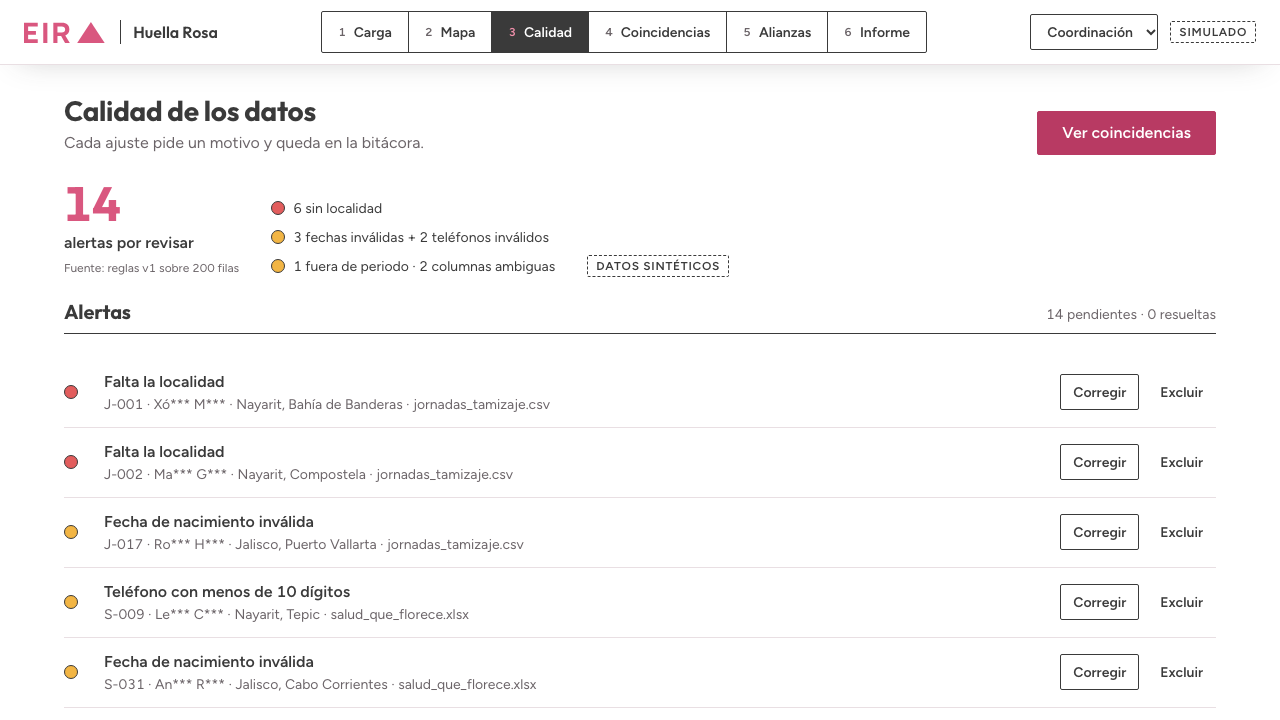
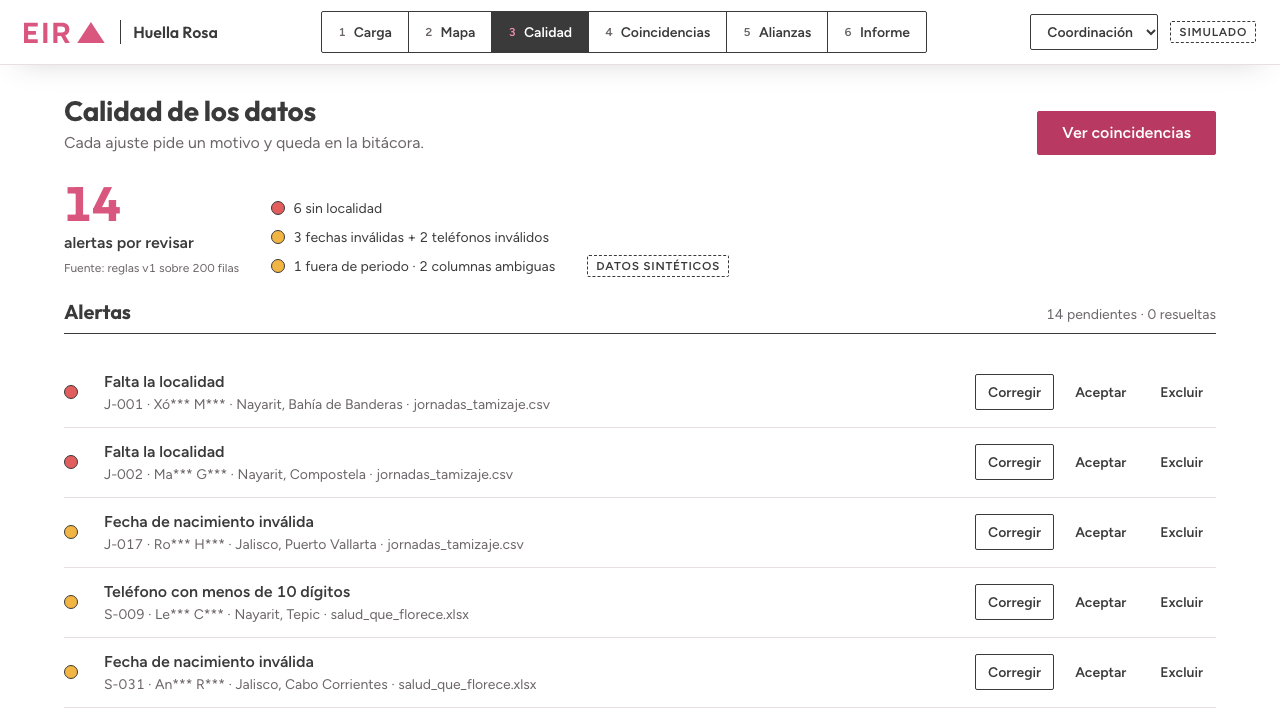
feat(HR-002): human field labels on Carga, Aceptar on Calidad; refresh locked screens
Generated with [Devin](https://devin.ai)

diff --git a/web/src/lib/ui/locked/FlowLock.tsx b/web/src/lib/ui/locked/FlowLock.tsx
@@ -5,7 +5,7 @@ import type { Tone } from '../index.tsx'
 const FILES = ['jornadas_tamizaje.csv · 120 filas', 'salud_que_florece.xlsx · 80 filas', 'alianzas.csv · 8 filas']
 
 const COLUMNS = ['Nombre', 'Apellido paterno', 'Fecha nacimiento', 'Telefono', 'Municipio', 'mpio']
-const FIELDS = ['nombre', 'ap1', 'fecha_nac', 'tel', 'municipio']
+const FIELDS = ['Nombre', 'Apellido paterno', 'Fecha de nacimiento', 'Teléfono', 'Municipio']
 
 // One link per source column: target field index, suggested confidence, dashed when it needs a look.
 const LINKS = [
@@ -18,9 +18,9 @@ const LINKS = [
 ]
 
 const ROWS: { tone: Tone; title: string; meta: string; pct: string }[] = [
-  { tone: 'ok', title: 'Municipio → municipio', meta: 'jornadas_tamizaje.csv · sinónimo exacto', pct: '100 %' },
-  { tone: 'ok', title: 'Apellido paterno → ap1', meta: 'jornadas_tamizaje.csv · sinónimo conocido', pct: '96 %' },
-  { tone: 'warn', title: 'mpio → municipio', meta: 'salud_que_florece.xlsx · similitud de nombre', pct: '91 %' },
+  { tone: 'ok', title: 'Municipio → Municipio', meta: 'jornadas_tamizaje.csv · sinónimo exacto', pct: '100 %' },
+  { tone: 'ok', title: 'Apellido paterno → Apellido paterno', meta: 'jornadas_tamizaje.csv · sinónimo conocido', pct: '96 %' },
+  { tone: 'warn', title: 'mpio → Municipio', meta: 'salud_que_florece.xlsx · similitud de nombre', pct: '91 %' },
 ]
 
 // Geometry of the mapping network, in viewBox units (0 0 900 360).

diff --git a/web/src/lib/ui/locked/ListLock.tsx b/web/src/lib/ui/locked/ListLock.tsx
@@ -65,6 +65,9 @@ export default function ListLock() {
               <>
                 <Button size="sm">Corregir</Button>
                 <Button size="sm" variant="ghost">
+                  Aceptar
+                </Button>
+                <Button size="sm" variant="ghost">
                   Excluir
                 </Button>
               </>
